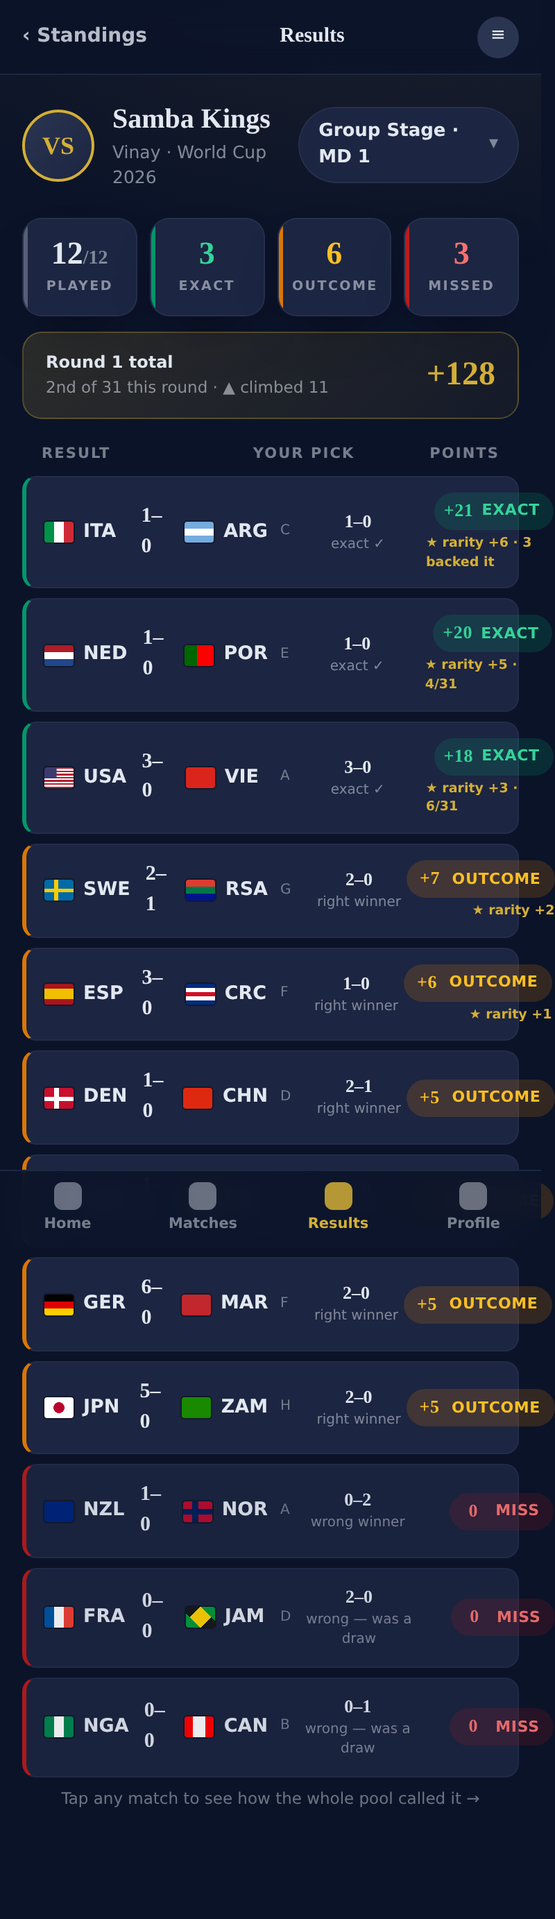
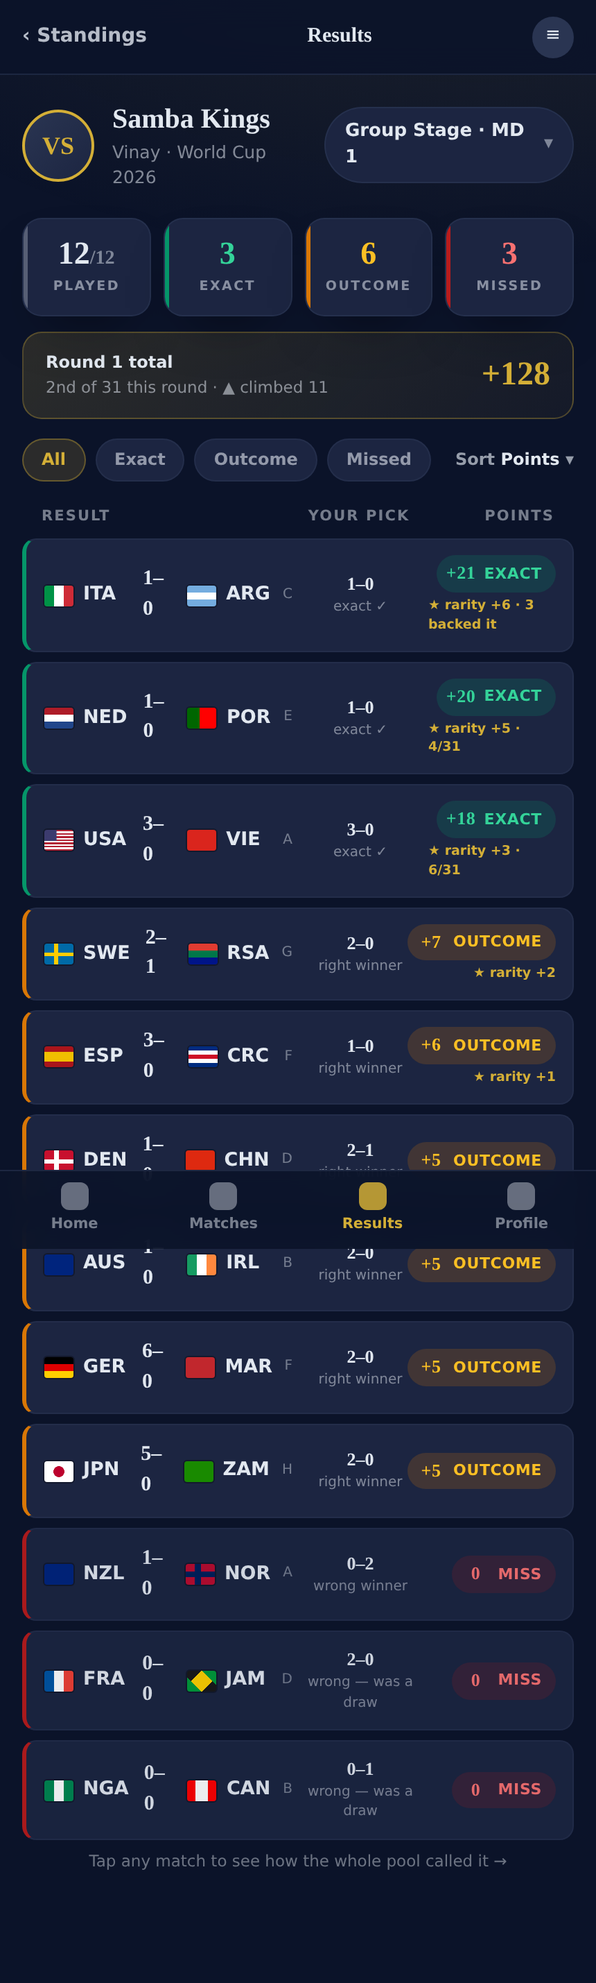
docs: add dashboard-v3 + early state, results filter bar, light/desktop renders
- dashboard-v3: Mission Control multi-entry hero (best entry + all-entries
  strip/switcher; points never aggregate; single-entry default note).
- state-early: Matchday-1 thin-data state (empty-but-alive).
- results-myround: add filter/sort bar revision.
- theme-hybrid.css: shared light-theme overrides; linked into all screens.
- light-theme + desktop renders across the key surfaces.

https://claude.ai/code/session_014fRmQ6eVNFy7joCpvavqqK

diff --git a/docs/homepage-mockups/state-early.html b/docs/homepage-mockups/state-early.html
@@ -1,0 +1,91 @@
+<!DOCTYPE html>
+<!-- Mockup ONLY — EARLY / thin-data state (Matchday 1). Mission Control before
+     much has been scored: everyone level, leaderboard not yet meaningful, but
+     the page still feels alive. premium-night (+ hybrid via theme-hybrid.css). -->
+<html lang="en"><head>
+<meta charset="utf-8" /><meta name="viewport" content="width=device-width, initial-scale=1" />
+<title>Early state — Matchday 1 (mockup)</title>
+<link href="https://fonts.googleapis.com/css2?family=Manrope:wght@400;500;600;700;800&family=Inter:wght@400;500;600;700&family=JetBrains+Mono:wght@500;700&family=Bebas+Neue&display=swap" rel="stylesheet" />
+<link rel="stylesheet" href="flags.css" /><link rel="stylesheet" href="theme-hybrid.css" />
+<style>
+  :root{--primary:#D4AF37;--success:#059669;--warning:#D97706;--error:#B91C1C;
+    --base-100:#0B1329;--base-200:#1C2541;--base-300:#2A3552;--content:#E2E8F0;
+    --box:0.875rem;--btn:0.625rem;--card-shadow:0 18px 40px -20px rgba(0,0,0,.6);}
+  *{box-sizing:border-box;margin:0;padding:0;}
+  body{font-family:'Inter',system-ui,sans-serif;background:var(--base-100);color:var(--content);-webkit-font-smoothing:antialiased;line-height:1.45;}
+  body::before{content:"";position:fixed;inset:0;pointer-events:none;z-index:0;background:radial-gradient(950px 520px at 78% -12%,rgba(212,175,55,.12),transparent 60%);}
+  main{position:relative;z-index:1;} .wrap{max-width:760px;margin:0 auto;padding:0 16px;} .muted{color:color-mix(in srgb,var(--content) 55%,transparent);} .font-hero{font-family:'Bebas Neue',sans-serif;letter-spacing:.02em;}
+  .topbar{height:58px;display:flex;align-items:center;border-bottom:1px solid color-mix(in srgb,var(--base-300) 60%,transparent);background:rgba(11,19,41,.85);backdrop-filter:blur(10px);position:sticky;top:0;z-index:20;}
+  .topbar .inner{display:flex;align-items:center;justify-content:space-between;width:100%;}
+  .brand{display:flex;align-items:center;gap:9px;} .brand .lg{width:28px;height:28px;border-radius:50%;background:linear-gradient(135deg,var(--primary),#a87f20);display:grid;place-items:center;color:#0B1329;font-weight:800;font-family:'Manrope';font-size:13px;} .brand .nm{font-family:'Manrope';font-weight:700;font-size:13px;letter-spacing:.04em;text-transform:lowercase;opacity:.85;}
+  .livepill{display:inline-flex;align-items:center;gap:7px;font-size:11px;font-weight:700;background:rgba(212,175,55,.16);color:var(--primary);padding:5px 11px;border-radius:999px;}
+
+  .hero{margin-top:18px;padding:24px;border-radius:var(--box);background:linear-gradient(135deg,var(--base-200),color-mix(in srgb,var(--base-300) 55%,var(--base-200)));border:1px solid color-mix(in srgb,var(--base-300) 70%,transparent);box-shadow:var(--card-shadow);text-align:center;}
+  .hero .eyebrow{font-size:11px;font-weight:700;letter-spacing:.16em;text-transform:uppercase;color:var(--primary);}
+  .hero .htitle{font-family:'Bebas Neue';font-size:clamp(34px,6vw,56px);line-height:.92;margin:9px 0 8px;} .hero .htitle .ac{color:var(--primary);}
+  .hero .sub{font-size:13.5px;color:color-mix(in srgb,var(--content) 75%,transparent);max-width:44ch;margin:0 auto;}
+  .hero .cta{display:inline-flex;margin-top:15px;font-weight:800;font-size:14px;padding:11px 20px;border-radius:var(--btn);background:var(--primary);color:#0b1329;}
+
+  .sect-h{font-family:'Manrope';font-weight:800;font-size:16px;margin:22px 0 11px;display:flex;align-items:center;justify-content:space-between;} .sect-h .sub{font-size:11px;font-weight:500;}
+  .rail{display:flex;gap:12px;overflow:hidden;}
+  .match{flex:0 0 200px;background:var(--base-200);border:1px solid color-mix(in srgb,var(--base-300) 65%,transparent);border-radius:var(--box);padding:13px;box-shadow:var(--card-shadow);}
+  .match.live{border-color:rgba(185,28,28,.5);}
+  .mtop{font-size:10px;font-weight:800;letter-spacing:.06em;text-transform:uppercase;color:color-mix(in srgb,var(--content) 50%,transparent);margin-bottom:9px;} .mtop.lv{color:#f87171;}
+  .team{display:flex;align-items:center;gap:8px;padding:3px 0;} .team .fi{width:20px;height:15px;border-radius:2px;box-shadow:0 0 0 1px rgba(0,0,0,.3);} .team .nm{flex:1;font-size:13px;font-weight:600;} .team .sc{font-family:'Manrope';font-weight:800;}
+  .mfoot{margin-top:9px;padding-top:8px;border-top:1px solid color-mix(in srgb,var(--base-300) 55%,transparent);font-size:11px;color:color-mix(in srgb,var(--content) 55%,transparent);}
+
+  .card{background:var(--base-200);border:1px solid color-mix(in srgb,var(--base-300) 60%,transparent);border-radius:var(--box);padding:16px;box-shadow:var(--card-shadow);}
+  /* empty leaderboard */
+  .empty{display:flex;flex-direction:column;align-items:center;gap:8px;padding:22px 16px;text-align:center;}
+  .empty .ic{font-size:26px;opacity:.7;} .empty .t{font-family:'Manrope';font-weight:800;font-size:15px;} .empty .d{font-size:12.5px;color:color-mix(in srgb,var(--content) 60%,transparent);max-width:38ch;}
+
+  .widgets{display:grid;grid-template-columns:repeat(2,1fr);gap:12px;margin-top:6px;}
+  .wdg{padding:15px;border-radius:var(--box);background:var(--base-200);border:1px solid color-mix(in srgb,var(--base-300) 65%,transparent);box-shadow:var(--card-shadow);}
+  .wdg .ic{font-size:17px;} .wdg .l{font-size:10.5px;letter-spacing:.1em;text-transform:uppercase;font-weight:700;color:color-mix(in srgb,var(--content) 55%,transparent);margin-top:7px;} .wdg .v{font-family:'Manrope';font-weight:800;font-size:21px;margin-top:2px;} .wdg .n{font-size:11px;color:color-mix(in srgb,var(--content) 60%,transparent);margin-top:2px;}
+
+  .story{background:linear-gradient(180deg,color-mix(in srgb,var(--base-300) 35%,transparent),transparent);border:1px solid color-mix(in srgb,var(--base-300) 60%,transparent);border-radius:var(--box);padding:15px;}
+  .story .kick{font-size:10.5px;font-weight:700;letter-spacing:.12em;text-transform:uppercase;color:var(--primary);} .story h3{font-family:'Manrope';font-weight:800;font-size:16px;margin:6px 0 6px;} .story p{font-size:13px;color:color-mix(in srgb,var(--content) 78%,transparent);} .story .by{font-size:11px;margin-top:9px;color:color-mix(in srgb,var(--content) 48%,transparent);}
+  .ai-badge{font-size:9.5px;font-weight:700;letter-spacing:.1em;text-transform:uppercase;background:linear-gradient(135deg,rgba(212,175,55,.25),rgba(5,150,105,.18));color:var(--primary);padding:3px 8px;border-radius:999px;border:1px solid rgba(212,175,55,.3);}
+  .footer-note{text-align:center;font-size:11.5px;color:color-mix(in srgb,var(--content) 42%,transparent);margin:22px 0 26px;}
+</style></head>
+<body><main>
+  <div class="topbar"><div class="wrap inner"><div class="brand"><span class="lg">P</span><span class="nm">the&nbsp;predictor</span></div><span class="livepill">⚽ MATCHDAY 1</span></div></div>
+  <div class="wrap">
+    <div class="hero">
+      <div class="eyebrow">World Cup 2026 · kickoff day</div>
+      <div class="htitle">IT'S ALL TO<br><span class="ac">PLAY FOR</span></div>
+      <div class="sub">Every entry starts level on 0. Your picks are locked — now watch the first whistle and see where you land.</div>
+      <a class="cta">Review your picks →</a>
+    </div>
+
+    <div class="sect-h">First matches <span class="sub muted">your picks are locked in</span></div>
+    <div class="rail">
+      <div class="match live"><div class="mtop lv">● LIVE 12'</div><div class="team"><span class="fi fi-mx"></span><span class="nm">Mexico</span><span class="sc">0</span></div><div class="team"><span class="fi fi-za"></span><span class="nm">S. Africa</span><span class="sc">0</span></div><div class="mfoot">Your pick: 2–1</div></div>
+      <div class="match"><div class="mtop">15:00</div><div class="team"><span class="fi fi-fr"></span><span class="nm">France</span><span class="sc muted">–</span></div><div class="team"><span class="fi fi-au"></span><span class="nm">Australia</span><span class="sc muted">–</span></div><div class="mfoot">Your pick: 3–0</div></div>
+      <div class="match"><div class="mtop">18:00</div><div class="team"><span class="fi fi-ar"></span><span class="nm">Argentina</span><span class="sc muted">–</span></div><div class="team"><span class="fi fi-ng"></span><span class="nm">Nigeria</span><span class="sc muted">–</span></div><div class="mfoot">Your pick: 2–0</div></div>
+    </div>
+
+    <div class="sect-h">You vs. the field</div>
+    <div class="card">
+      <div class="empty"><span class="ic">🏁</span><div class="t">Everyone's on 0 — for now</div><div class="d">The leaderboard comes alive after the first results land tonight. Check back at full time.</div></div>
+    </div>
+
+    <div class="sect-h">Your tournament</div>
+    <div class="widgets">
+      <div class="wdg"><div class="ic">🏆</div><div class="l">Bracket alive</div><div class="v">16<span style="font-size:12px;opacity:.5">/16</span></div><div class="n">all picks still in</div></div>
+      <div class="wdg"><div class="ic">🎯</div><div class="l">Hit rate</div><div class="v">—</div><div class="n">no results yet</div></div>
+      <div class="wdg"><div class="ic">🔥</div><div class="l">Streak</div><div class="v">0</div><div class="n">build one tonight</div></div>
+      <div class="wdg"><div class="ic">⏱</div><div class="l">Matches played</div><div class="v">0<span style="font-size:12px;opacity:.5">/64</span></div><div class="n">group stage</div></div>
+    </div>
+
+    <div class="sect-h">The Newsroom <span class="ai-badge">✦ AI generated</span></div>
+    <div class="story">
+      <div class="kick">Kickoff</div>
+      <h3>31 hopefuls, one trophy — and not a single point on the board yet</h3>
+      <p>The bracket's locked, the bold calls are in, and "Dark Horse" has the most contrarian sheet in the pool. By tonight we'll have our first leader. May the best prediction win.</p>
+      <div class="by">✦ Written by The Predictor AI · pre-tournament</div>
+    </div>
+
+    <p class="footer-note">Mockup · early / thin-data state (Matchday 1) · premium-night theme.</p>
+  </div>
+</main></body></html>

diff --git a/docs/homepage-mockups/dashboard-v3.html b/docs/homepage-mockups/dashboard-v3.html
@@ -1,0 +1,82 @@
+<!DOCTYPE html>
+<!-- Mockup ONLY — Mission Control hero, MULTI-ENTRY in context. Single entry is
+     the clean default; with 2+ entries an "all your entries" strip + switcher
+     appears under the hero. Points never aggregate; hero leads with best entry.
+     premium-night tokens (+ hybrid via theme-hybrid.css). -->
+<html lang="en"><head>
+<meta charset="utf-8" /><meta name="viewport" content="width=device-width, initial-scale=1" />
+<title>Mission Control — multi-entry hero (mockup)</title>
+<link href="https://fonts.googleapis.com/css2?family=Manrope:wght@400;500;600;700;800&family=Inter:wght@400;500;600;700&family=JetBrains+Mono:wght@500;700&family=Bebas+Neue&display=swap" rel="stylesheet" />
+<link rel="stylesheet" href="flags.css" /><link rel="stylesheet" href="theme-hybrid.css" />
+<style>
+  :root{--primary:#D4AF37;--success:#059669;--warning:#D97706;--error:#B91C1C;
+    --base-100:#0B1329;--base-200:#1C2541;--base-300:#2A3552;--content:#E2E8F0;
+    --box:0.875rem;--btn:0.625rem;--card-shadow:0 18px 40px -20px rgba(0,0,0,.6);}
+  *{box-sizing:border-box;margin:0;padding:0;}
+  body{font-family:'Inter',system-ui,sans-serif;background:var(--base-100);color:var(--content);-webkit-font-smoothing:antialiased;line-height:1.45;}
+  body::before{content:"";position:fixed;inset:0;pointer-events:none;z-index:0;background:radial-gradient(950px 520px at 78% -12%,rgba(212,175,55,.12),transparent 60%);}
+  main{position:relative;z-index:1;} .wrap{max-width:760px;margin:0 auto;padding:0 16px;} .muted{color:color-mix(in srgb,var(--content) 55%,transparent);} .font-hero{font-family:'Bebas Neue',sans-serif;letter-spacing:.02em;}
+  .topbar{height:58px;display:flex;align-items:center;border-bottom:1px solid color-mix(in srgb,var(--base-300) 60%,transparent);background:rgba(11,19,41,.85);backdrop-filter:blur(10px);position:sticky;top:0;z-index:20;}
+  .topbar .inner{display:flex;align-items:center;justify-content:space-between;width:100%;}
+  .brand{display:flex;align-items:center;gap:9px;} .brand .lg{width:28px;height:28px;border-radius:50%;background:linear-gradient(135deg,var(--primary),#a87f20);display:grid;place-items:center;color:#0B1329;font-weight:800;font-family:'Manrope';font-size:13px;} .brand .nm{font-family:'Manrope';font-weight:700;font-size:13px;letter-spacing:.04em;text-transform:lowercase;opacity:.85;}
+  .livepill{display:inline-flex;align-items:center;gap:7px;font-size:11px;font-weight:700;background:rgba(185,28,28,.16);color:#fca5a5;padding:5px 11px;border-radius:999px;} .dot{width:7px;height:7px;border-radius:50%;background:#ef4444;animation:p 1.6s infinite;} @keyframes p{0%,100%{opacity:1}50%{opacity:.35}}
+
+  .hero{margin-top:18px;padding:24px;border-radius:var(--box);background:linear-gradient(135deg,var(--base-200),color-mix(in srgb,var(--base-300) 55%,var(--base-200)));border:1px solid color-mix(in srgb,var(--base-300) 70%,transparent);box-shadow:var(--card-shadow);}
+  .greeting{font-size:13px;font-weight:600;} .htitle{font-family:'Bebas Neue';font-size:clamp(32px,5vw,52px);line-height:.92;margin:8px 0 6px;} .htitle .ac{color:var(--primary);}
+  .stat-row{display:grid;grid-template-columns:repeat(3,1fr);gap:11px;margin-top:8px;}
+  .stat{background:color-mix(in srgb,var(--base-100) 45%,transparent);border-radius:var(--btn);padding:12px 13px;border:1px solid color-mix(in srgb,var(--base-300) 55%,transparent);}
+  .stat .l{font-size:10px;letter-spacing:.1em;text-transform:uppercase;font-weight:700;color:color-mix(in srgb,var(--content) 55%,transparent);} .stat .v{font-family:'Manrope';font-weight:800;font-size:24px;margin-top:2px;} .stat .s{font-size:11px;margin-top:2px;}
+  .pill{display:inline-flex;align-items:center;gap:5px;font-size:11px;font-weight:700;padding:2px 8px;border-radius:999px;} .pill.up{background:rgba(5,150,105,.18);color:#34d399;}
+
+  /* all your entries strip */
+  .entries{margin-top:16px;}
+  .entries .cap{display:flex;align-items:center;justify-content:space-between;font-size:11px;font-weight:700;letter-spacing:.1em;text-transform:uppercase;color:color-mix(in srgb,var(--content) 50%,transparent);margin-bottom:9px;}
+  .estrip{display:flex;gap:11px;overflow:hidden;}
+  .ecard{flex:0 0 165px;background:var(--base-200);border:1px solid color-mix(in srgb,var(--base-300) 60%,transparent);border-radius:var(--box);padding:13px;box-shadow:var(--card-shadow);}
+  .ecard.active{border-color:var(--primary);background:rgba(212,175,55,.08);}
+  .ecard .top{display:flex;align-items:center;justify-content:space-between;}
+  .ecard .nm{font-family:'Manrope';font-weight:800;font-size:14px;} .ecard .badge{font-size:8.5px;font-weight:800;background:rgba(212,175,55,.2);color:var(--primary);padding:2px 6px;border-radius:999px;}
+  .ecard .rk{font-family:'Manrope';font-weight:800;font-size:22px;margin-top:8px;} .ecard .rk .u{font-size:12px;opacity:.5;}
+  .ecard .pts{font-size:12px;color:color-mix(in srgb,var(--content) 60%,transparent);} .ecard .mv{font-size:10.5px;font-weight:700;margin-top:6px;}
+  .ecard .mv.up{color:#34d399;} .ecard .mv.dn{color:#f87171;}
+  .eadd{flex:0 0 56px;border:1px dashed color-mix(in srgb,var(--base-300) 80%,transparent);border-radius:var(--box);display:grid;place-items:center;color:color-mix(in srgb,var(--content) 45%,transparent);font-size:22px;}
+
+  .note{margin-top:12px;font-size:11.5px;color:color-mix(in srgb,var(--content) 55%,transparent);text-align:center;}
+  .note b{color:var(--primary);}
+  /* single-entry callout */
+  .single{margin-top:14px;background:color-mix(in srgb,var(--base-300) 30%,var(--base-200));border:1px dashed color-mix(in srgb,var(--base-300) 70%,transparent);border-radius:var(--box);padding:12px 15px;font-size:12px;color:color-mix(in srgb,var(--content) 60%,transparent);}
+  .single b{color:var(--content);}
+  .footer-note{text-align:center;font-size:11.5px;color:color-mix(in srgb,var(--content) 42%,transparent);margin:22px 0 26px;}
+  .sect-cap{font-size:11px;letter-spacing:.13em;text-transform:uppercase;font-weight:800;color:color-mix(in srgb,var(--content) 45%,transparent);margin:22px 0 9px;}
+</style></head>
+<body><main>
+  <div class="topbar"><div class="wrap inner"><div class="brand"><span class="lg">P</span><span class="nm">the&nbsp;predictor</span></div><span class="livepill"><span class="dot"></span>2 LIVE</span></div></div>
+  <div class="wrap">
+
+    <div class="sect-cap">Multi-entry hero — leads with your best, all entries one tap away</div>
+    <div class="hero">
+      <span class="greeting muted">Good evening, Vinay · your best entry</span>
+      <div class="htitle">SAMBA KINGS<br><span class="ac">3RD OF 31</span></div>
+      <div class="stat-row">
+        <div class="stat"><div class="l">Rank</div><div class="v">3rd</div><div class="s pill up">▲ up 4</div></div>
+        <div class="stat"><div class="l">Points</div><div class="v">218</div><div class="s muted">+34 today</div></div>
+        <div class="stat"><div class="l">Gap to 1st</div><div class="v">11</div><div class="s muted">pts behind</div></div>
+      </div>
+
+      <div class="entries">
+        <div class="cap"><span>All your entries · 3</span><span style="color:var(--primary);">tap to switch</span></div>
+        <div class="estrip">
+          <div class="ecard active"><div class="top"><span class="nm">Samba Kings</span><span class="badge">ACTIVE</span></div><div class="rk">3<span class="u">rd</span></div><div class="pts">218 pts</div><div class="mv up">▲ 4 this matchday</div></div>
+          <div class="ecard"><div class="top"><span class="nm">Dark Horse</span></div><div class="rk">14<span class="u">th</span></div><div class="pts">191 pts</div><div class="mv up">▲ 9 this matchday</div></div>
+          <div class="ecard"><div class="top"><span class="nm">Wildcard</span></div><div class="rk">22<span class="u">nd</span></div><div class="pts">176 pts</div><div class="mv dn">▼ 3 this matchday</div></div>
+          <div class="eadd">+</div>
+        </div>
+        <div class="note">Each entry is its own competitor — <b>points never combine</b>. The hero, results &amp; stats follow whichever entry is active.</div>
+      </div>
+    </div>
+
+    <div class="single">📎 <b>Most users have one entry</b> — in that case this strip and the switcher don't appear at all; the hero just shows your single entry. (Single-entry is the clean default.)</div>
+
+    <p class="footer-note">Mockup · Mission Control multi-entry hero · premium-night theme.</p>
+  </div>
+</main></body></html>

diff --git a/docs/homepage-mockups/results-myround.html b/docs/homepage-mockups/results-myround.html
@@ -8,6 +8,7 @@
 <link rel="preconnect" href="https://fonts.googleapis.com" /><link rel="preconnect" href="https://fonts.gstatic.com" crossorigin />
 <link href="https://fonts.googleapis.com/css2?family=Manrope:wght@400;500;600;700;800&family=Inter:wght@400;500;600;700&family=JetBrains+Mono:wght@500;700&display=swap" rel="stylesheet" />
 <link rel="stylesheet" href="flags.css" />
+<link rel="stylesheet" href="theme-hybrid.css" />
 <style>
   :root{--primary:#D4AF37;--success:#059669;--warning:#D97706;--error:#B91C1C;
     --base-100:#0B1329;--base-200:#1C2541;--base-300:#2A3552;--content:#E2E8F0;
@@ -53,6 +54,11 @@
   .total-band .pts{font-family:'Manrope';font-weight:800;font-size:24px;color:var(--primary);}
   .total-band .rk{font-size:11.5px;}
 
+  /* filter/sort bar */
+  .filterbar{display:flex;align-items:center;gap:7px;margin-top:14px;flex-wrap:wrap;}
+  .fchip{font-size:12px;font-weight:700;padding:6px 13px;border-radius:999px;background:var(--base-200);border:1px solid color-mix(in srgb,var(--base-300) 60%,transparent);color:color-mix(in srgb,var(--content) 60%,transparent);}
+  .fchip.on{background:rgba(212,175,55,.16);color:var(--primary);border-color:rgba(212,175,55,.35);}
+  .sortby{margin-left:auto;font-size:12px;font-weight:600;color:color-mix(in srgb,var(--content) 65%,transparent);} .sortby b{color:var(--content);}
   /* list header */
   .list-head{display:grid;grid-template-columns:1fr 78px 92px;gap:10px;padding:18px 14px 8px;font-size:10.5px;letter-spacing:.1em;text-transform:uppercase;font-weight:700;color:color-mix(in srgb,var(--content) 50%,transparent);}
   .list-head .r{text-align:right;}
@@ -110,6 +116,12 @@
     <div class="total-band">
       <div><div class="lab">Round 1 total</div><div class="rk muted">2nd of 31 this round · ▲ climbed 11</div></div>
       <div class="pts">+128</div>
+    </div>
+
+    <!-- filters / sort (revision) -->
+    <div class="filterbar">
+      <span class="fchip on">All</span><span class="fchip">Exact</span><span class="fchip">Outcome</span><span class="fchip">Missed</span>
+      <span class="sortby">Sort <b>Points</b> ▾</span>
     </div>
 
     <!-- list -->

diff --git a/docs/homepage-mockups/theme-hybrid.css b/docs/homepage-mockups/theme-hybrid.css
@@ -1,0 +1,17 @@
+/* Shared hybrid (light) theme override for the mockups. Link this in a screen
+   and render with document.body.classList.add('hybrid') to preview the light
+   theme. Token values mirror the `hybrid` DaisyUI theme in CLAUDE.md /
+   tailwind.config.js. (Dark app chrome — top bars — intentionally stays dark,
+   matching the real hybrid theme.) Mockup-only; not used by the app. */
+body.hybrid{
+  --primary:#B8941F;
+  --warning:#B45309;
+  --base-100:#E2E7F0;
+  --base-200:#FFFFFF;
+  --base-300:#D3DBE7;
+  --content:#0B1329;
+  --card-shadow:0 12px 30px -18px rgba(15,25,50,.25);
+}
+body.hybrid::before{
+  background:radial-gradient(950px 520px at 78% -12%,rgba(184,148,31,.10),transparent 60%) !important;
+}

diff --git a/docs/homepage-mockups/entry-detail.html b/docs/homepage-mockups/entry-detail.html
@@ -10,6 +10,7 @@
 <link rel="preconnect" href="https://fonts.googleapis.com" /><link rel="preconnect" href="https://fonts.gstatic.com" crossorigin />
 <link href="https://fonts.googleapis.com/css2?family=Manrope:wght@400;500;600;700;800&family=Inter:wght@400;500;600;700&family=JetBrains+Mono:wght@500;700&display=swap" rel="stylesheet" />
 <link rel="stylesheet" href="flags.css" />
+<link rel="stylesheet" href="theme-hybrid.css" />
 <style>
   :root{--primary:#D4AF37;--success:#059669;--warning:#D97706;--error:#B91C1C;
     --base-100:#0B1329;--base-200:#1C2541;--base-300:#2A3552;--content:#E2E8F0;

diff --git a/docs/homepage-mockups/match-upcoming.html b/docs/homepage-mockups/match-upcoming.html
@@ -10,6 +10,7 @@
 <link rel="preconnect" href="https://fonts.googleapis.com" /><link rel="preconnect" href="https://fonts.gstatic.com" crossorigin />
 <link href="https://fonts.googleapis.com/css2?family=Manrope:wght@400;500;600;700;800&family=Inter:wght@400;500;600;700&family=JetBrains+Mono:wght@500;700&display=swap" rel="stylesheet" />
 <link rel="stylesheet" href="flags.css" />
+<link rel="stylesheet" href="theme-hybrid.css" />
 <style>
   :root{--primary:#D4AF37;--success:#059669;--warning:#D97706;--error:#B91C1C;
     --base-100:#0B1329;--base-200:#1C2541;--base-300:#2A3552;--content:#E2E8F0;

diff --git a/docs/homepage-mockups/multi-entry.html b/docs/homepage-mockups/multi-entry.html
@@ -11,6 +11,7 @@
 <link rel="preconnect" href="https://fonts.googleapis.com" /><link rel="preconnect" href="https://fonts.gstatic.com" crossorigin />
 <link href="https://fonts.googleapis.com/css2?family=Manrope:wght@400;500;600;700;800&family=Inter:wght@400;500;600;700&family=JetBrains+Mono:wght@500;700&display=swap" rel="stylesheet" />
 <link rel="stylesheet" href="flags.css" />
+<link rel="stylesheet" href="theme-hybrid.css" />
 <style>
   :root{--primary:#D4AF37;--success:#059669;--warning:#D97706;--error:#B91C1C;
     --base-100:#0B1329;--base-200:#1C2541;--base-300:#2A3552;--content:#E2E8F0;

diff --git a/docs/homepage-mockups/results-match.html b/docs/homepage-mockups/results-match.html
@@ -11,6 +11,7 @@
 <link rel="preconnect" href="https://fonts.googleapis.com" /><link rel="preconnect" href="https://fonts.gstatic.com" crossorigin />
 <link href="https://fonts.googleapis.com/css2?family=Manrope:wght@400;500;600;700;800&family=Inter:wght@400;500;600;700&family=JetBrains+Mono:wght@500;700&display=swap" rel="stylesheet" />
 <link rel="stylesheet" href="flags.css" />
+<link rel="stylesheet" href="theme-hybrid.css" />
 <style>
   :root{--primary:#D4AF37;--success:#059669;--warning:#D97706;--error:#B91C1C;
     --base-100:#0B1329;--base-200:#1C2541;--base-300:#2A3552;--content:#E2E8F0;

diff --git a/docs/homepage-mockups/landing-pretournament.html b/docs/homepage-mockups/landing-pretournament.html
@@ -8,6 +8,7 @@
 <meta charset="utf-8" /><meta name="viewport" content="width=device-width, initial-scale=1" />
 <title>Pre-tournament homepage — dynamic (mockup)</title>
 <link href="https://fonts.googleapis.com/css2?family=Manrope:wght@400;500;600;700;800&family=Inter:wght@400;500;600;700&family=JetBrains+Mono:wght@500;700&family=Bebas+Neue&display=swap" rel="stylesheet" />
+<link rel="stylesheet" href="theme-hybrid.css" />
 <style>
   :root{--primary:#D4AF37;--success:#059669;--warning:#D97706;--error:#B91C1C;
     --base-100:#0B1329;--base-200:#1C2541;--base-300:#2A3552;--content:#E2E8F0;

diff --git a/docs/homepage-mockups/leaderboard.html b/docs/homepage-mockups/leaderboard.html
@@ -8,6 +8,7 @@
 <title>Leaderboard (mockup)</title>
 <link rel="preconnect" href="https://fonts.googleapis.com" /><link rel="preconnect" href="https://fonts.gstatic.com" crossorigin />
 <link href="https://fonts.googleapis.com/css2?family=Manrope:wght@400;500;600;700;800&family=Inter:wght@400;500;600;700&family=JetBrains+Mono:wght@500;700&display=swap" rel="stylesheet" />
+<link rel="stylesheet" href="theme-hybrid.css" />
 <style>
   :root{--primary:#D4AF37;--success:#059669;--warning:#D97706;--error:#B91C1C;
     --base-100:#0B1329;--base-200:#1C2541;--base-300:#2A3552;--content:#E2E8F0;

diff --git a/docs/homepage-mockups/landing-live.html b/docs/homepage-mockups/landing-live.html
@@ -8,6 +8,7 @@
 <title>Guest live landing (mockup)</title>
 <link href="https://fonts.googleapis.com/css2?family=Manrope:wght@400;500;600;700;800&family=Inter:wght@400;500;600;700&family=JetBrains+Mono:wght@500;700&family=Bebas+Neue&display=swap" rel="stylesheet" />
 <link rel="stylesheet" href="flags.css" />
+<link rel="stylesheet" href="theme-hybrid.css" />
 <style>
   :root{--primary:#D4AF37;--success:#059669;--warning:#D97706;--error:#B91C1C;
     --base-100:#0B1329;--base-200:#1C2541;--base-300:#2A3552;--content:#E2E8F0;

diff --git a/docs/homepage-mockups/connectivity-map.html b/docs/homepage-mockups/connectivity-map.html
@@ -5,6 +5,7 @@
 <meta charset="utf-8" /><meta name="viewport" content="width=device-width, initial-scale=1" />
 <title>Connectivity map (mockup)</title>
 <link href="https://fonts.googleapis.com/css2?family=Manrope:wght@400;500;600;700;800&family=Inter:wght@400;500;600;700&display=swap" rel="stylesheet" />
+<link rel="stylesheet" href="theme-hybrid.css" />
 <style>
   :root{--primary:#D4AF37;--base-100:#0B1329;--base-200:#1C2541;--base-300:#2A3552;--content:#E2E8F0;}
   *{box-sizing:border-box;margin:0;padding:0;}
